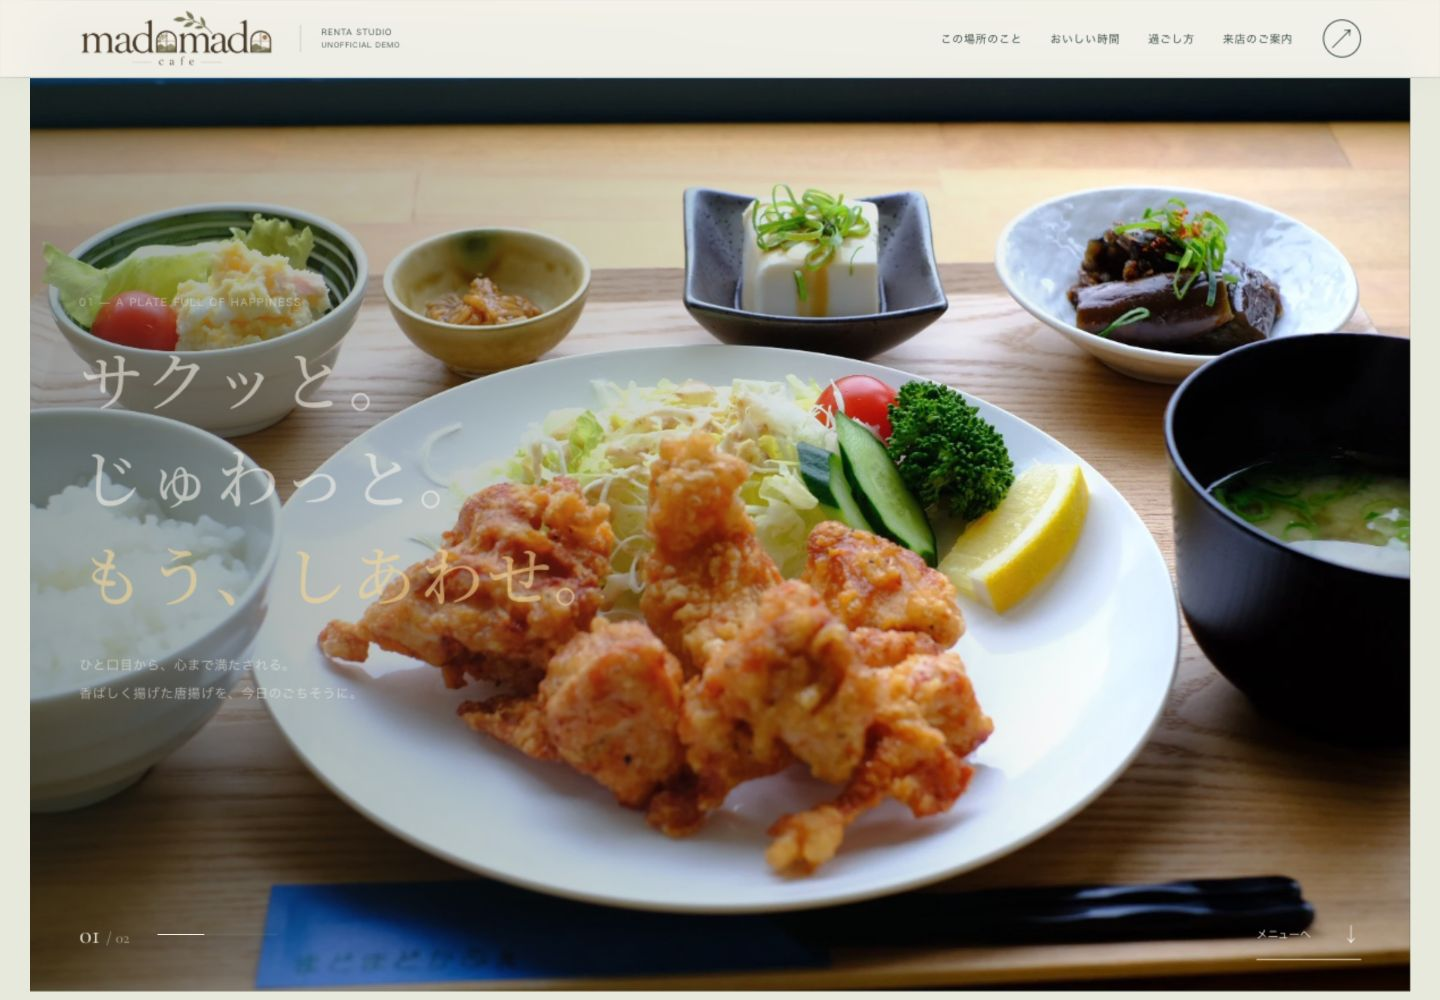
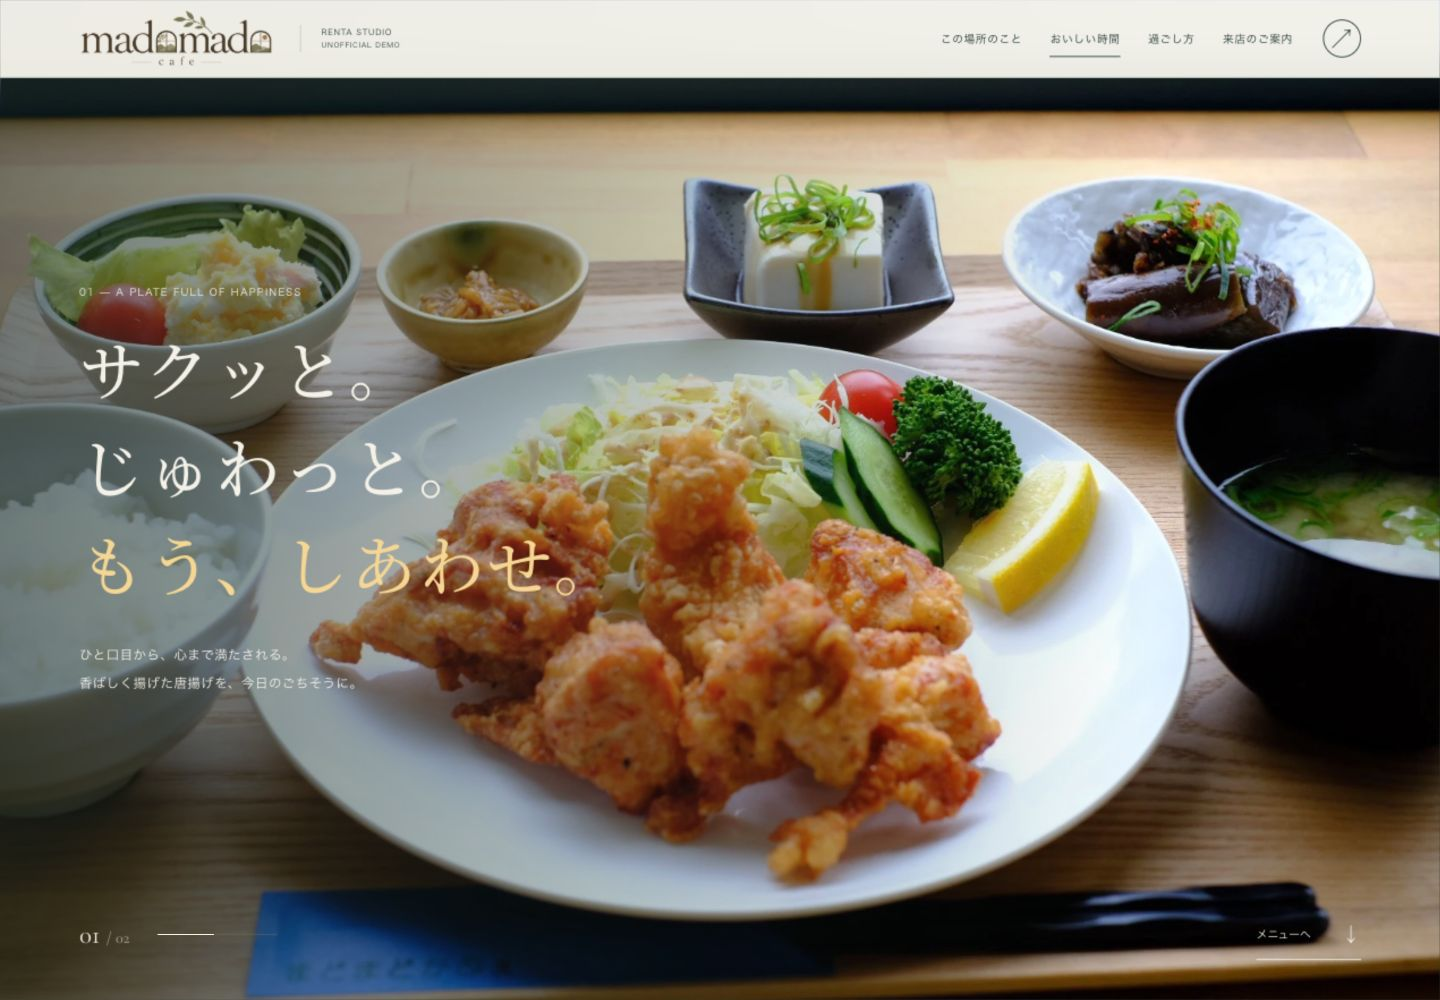
Record production browser and HTTP verification

diff --git a/docs/verification.md b/docs/verification.md
@@ -32,3 +32,17 @@ Screenshots are retained in `docs/screenshots/`.
 ## Scope
 
 Responsive checks use emulated viewport sizes in Chromium, not physical iOS/Android devices. No live reservation or phone call was placed. Instagram login-gated dog rules were not guessed; the site links to the official guides and telephone. Actual system-level reduced-motion preference was not toggled; the explicit reduced-motion route exercises the same non-animated layout and the system media query is implemented separately.
+
+## Production verification
+
+- URL: https://madomado-cafe.ur24-jp.workers.dev/
+- Worker: `madomado-cafe`
+- Deployment version: `7b403ef3-ddd8-4e83-9d5f-b331988db7e9`.
+- Root response: HTTP 200; HTML meta noindex and explicit demo disclosure verified.
+- `X-Robots-Tag: noindex, nofollow, noarchive` verified on root and checked asset/error responses.
+- Security headers and CSP present.
+- `robots.txt`: HTTP 200 with `Disallow: /`.
+- Favicon: HTTP 200.
+- Unknown URL: genuine HTTP 404 with the custom Japanese error page.
+- Production Chromium: desktop 1440×1000 and mobile 390×844; no horizontal overflow or broken images; no console warnings/errors.
+- The no-JavaScript fallback was reinforced with explicit style precedence in the final deployment.
